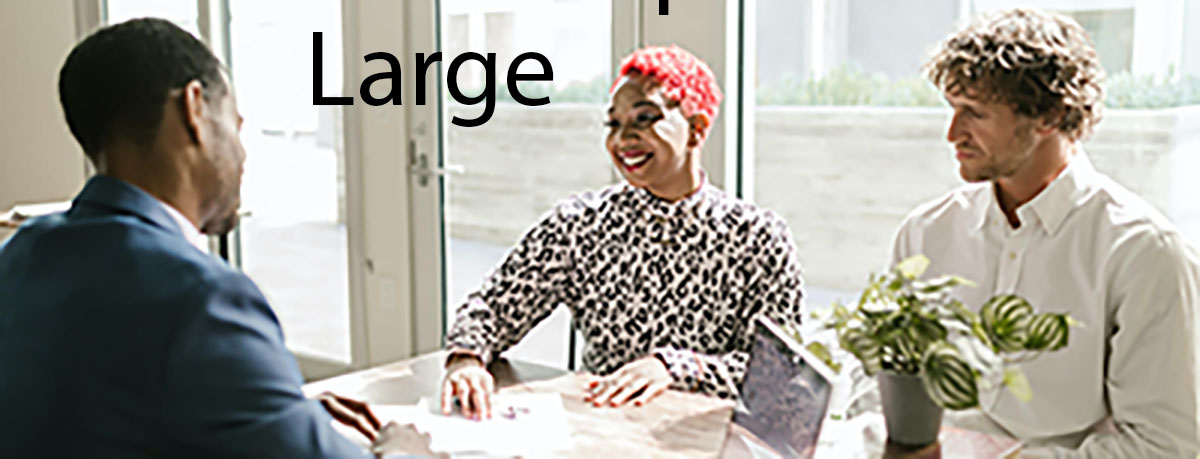
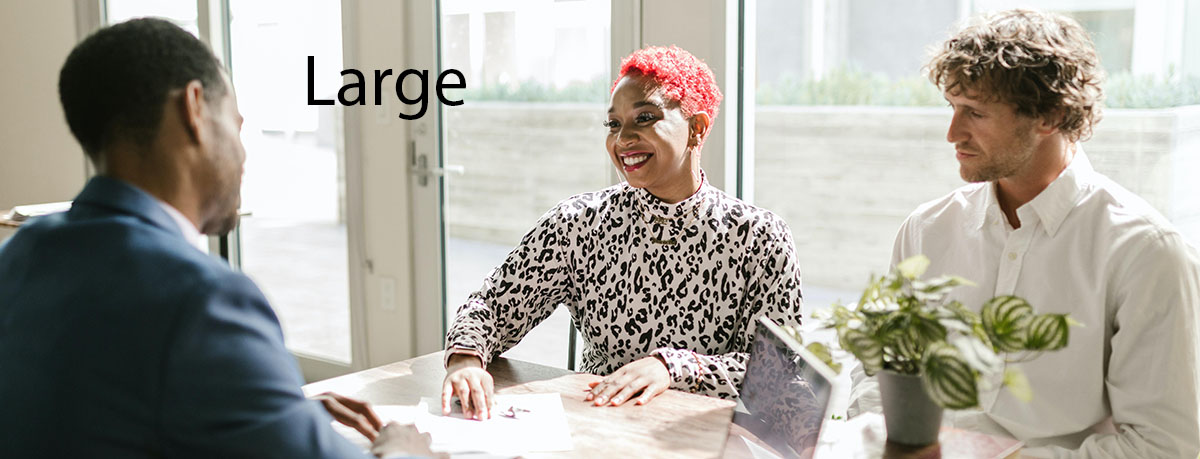
fixed srcset

diff --git a/chamber/index.html b/chamber/index.html
@@ -36,7 +36,7 @@
 
   <body>
     <figure>
-      <img class="newhero" src="images/heroSrc.jpeg" alt="new hero image" sizes="100vw" srcset="images/heroSrcSmall.jpg 400w, images/heroSrcMedium.jpg 800w, images/heroSrcLarge.jpg 1000" >
+      <img class="newhero" src="images/heroSrc.jpeg" alt="new hero image" sizes="100vw" srcset="images/heroSrcSmall.jpg 400w, images/heroSrcMedium.jpg 800w, images/heroSrcLarge.jpg 1000w" >
     </figure>
     
 
